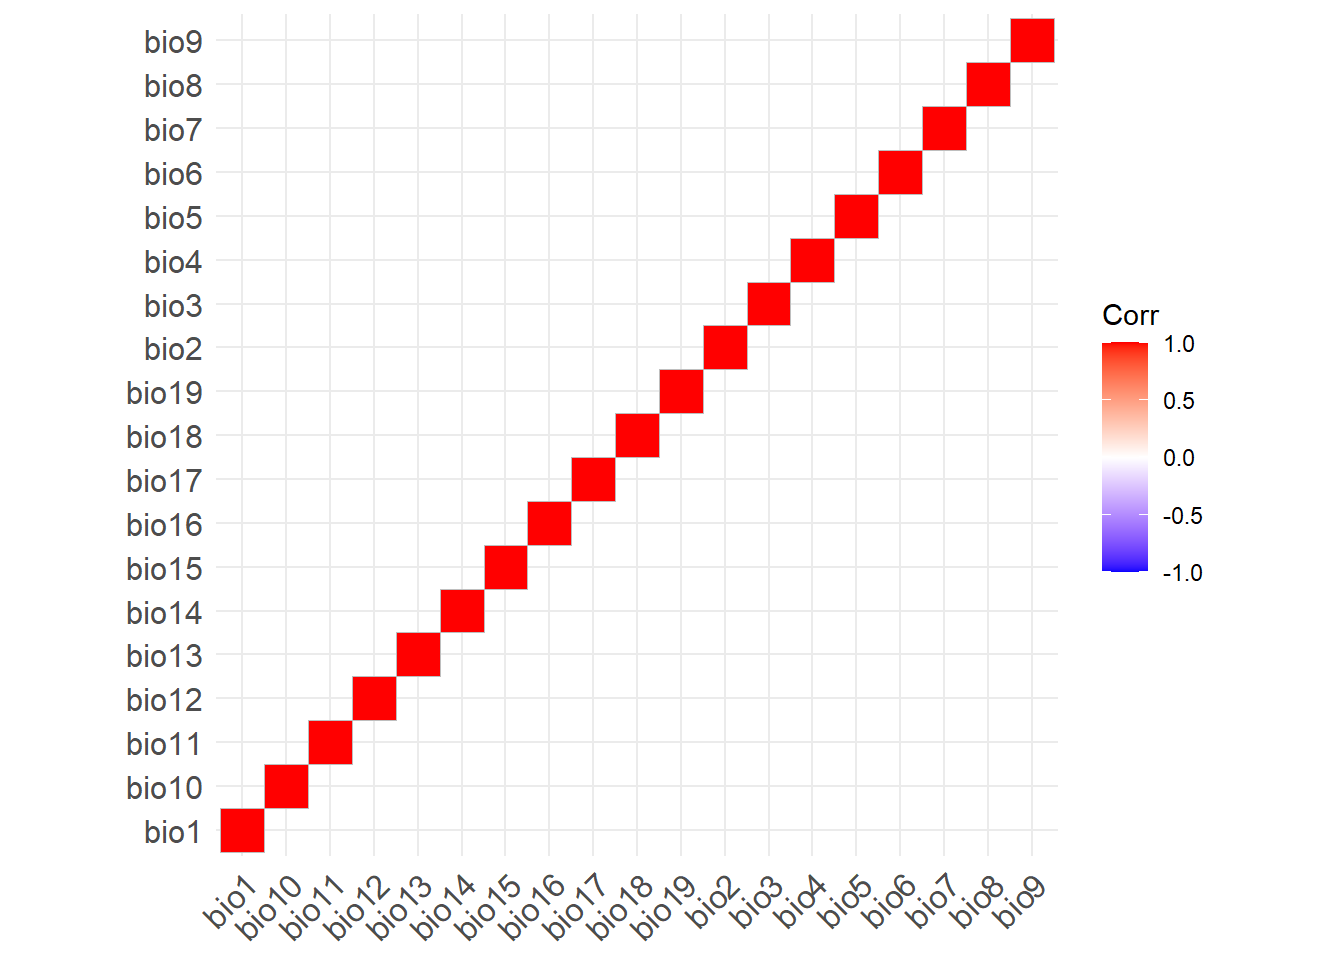
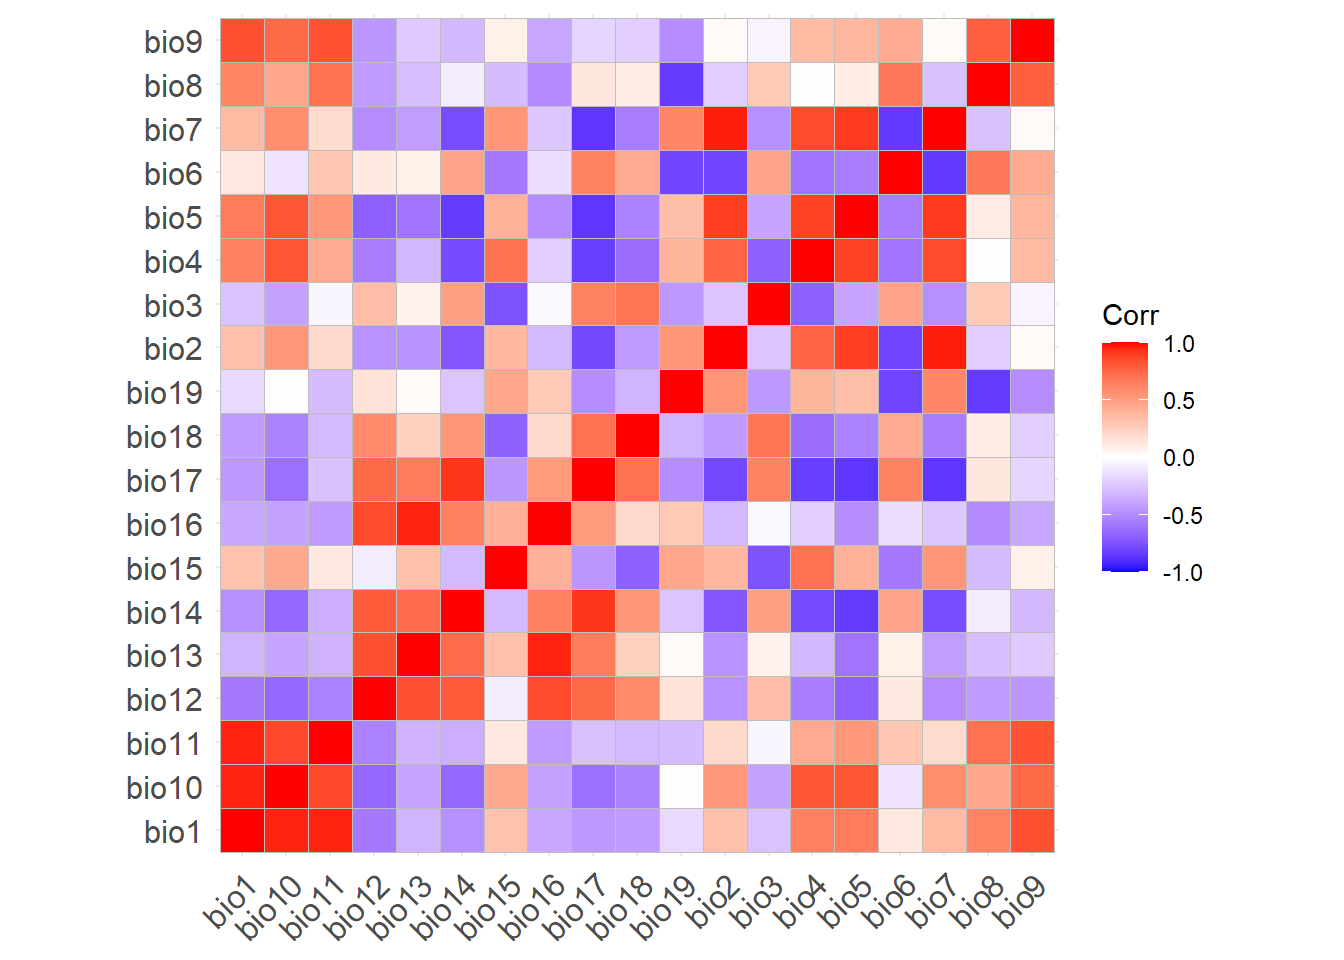
fix small visualisation issues

diff --git a/docs/41_variable_selection.html b/docs/41_variable_selection.html
@@ -365,10 +365,6 @@ div.csl-indent {
 <span id="cb3-8"><a href="#cb3-8" aria-hidden="true" tabindex="-1"></a>                                      <span class="fu">rep</span>(<span class="fu">c</span>(<span class="st">"group"</span>, <span class="st">"all"</span>), <span class="at">each =</span> <span class="dv">2</span>), </span>
 <span id="cb3-9"><a href="#cb3-9" aria-hidden="true" tabindex="-1"></a>                                      <span class="at">sep =</span> <span class="st">"_"</span>)))</span></code><button title="Copy to Clipboard" class="code-copy-button"><i class="bi"></i></button></pre></div>
 </details>
-<div class="cell-output cell-output-stderr">
-<pre><code>`summarise()` has grouped output by 'group'. You can override using the
-`.groups` argument.</code></pre>
-</div>
 <div class="cell-output-display">
 <table class="caption-top table table-sm table-striped small">
 <colgroup>
@@ -426,53 +422,53 @@ div.csl-indent {
 <div class="cell">
 <details class="code-fold">
 <summary>Code</summary>
-<div class="sourceCode cell-code" id="cb5"><pre class="sourceCode r code-with-copy"><code class="sourceCode r"><span id="cb5-1"><a href="#cb5-1" aria-hidden="true" tabindex="-1"></a>data <span class="ot">&lt;-</span> <span class="fu">read.csv</span>(<span class="st">"data/cache/data_stocks.csv"</span>) <span class="sc">%&gt;%</span> </span>
-<span id="cb5-2"><a href="#cb5-2" aria-hidden="true" tabindex="-1"></a>  <span class="fu">merge</span>(<span class="fu">read.csv</span>(<span class="st">"data/cache/climate_data.csv"</span>)) <span class="sc">%&gt;%</span> </span>
-<span id="cb5-3"><a href="#cb5-3" aria-hidden="true" tabindex="-1"></a>  <span class="fu">merge</span>(<span class="fu">read.csv</span>(<span class="st">"data/cache/soilgrids_data.csv"</span>)) <span class="sc">%&gt;%</span> </span>
-<span id="cb5-4"><a href="#cb5-4" aria-hidden="true" tabindex="-1"></a>  <span class="fu">drop_na</span>() </span>
-<span id="cb5-5"><a href="#cb5-5" aria-hidden="true" tabindex="-1"></a></span>
-<span id="cb5-6"><a href="#cb5-6" aria-hidden="true" tabindex="-1"></a><span class="co"># partition data in train/validation</span></span>
-<span id="cb5-7"><a href="#cb5-7" aria-hidden="true" tabindex="-1"></a><span class="co"># randomly select 20% of sites for validation</span></span>
-<span id="cb5-8"><a href="#cb5-8" aria-hidden="true" tabindex="-1"></a>validation_sites <span class="ot">&lt;-</span> data <span class="sc">%&gt;%</span></span>
-<span id="cb5-9"><a href="#cb5-9" aria-hidden="true" tabindex="-1"></a>  <span class="fu">group_by</span>(site) <span class="sc">%&gt;%</span></span>
-<span id="cb5-10"><a href="#cb5-10" aria-hidden="true" tabindex="-1"></a>  <span class="fu">summarise</span>(<span class="at">type =</span> <span class="fu">c</span>(<span class="st">"cal"</span>, <span class="st">"val"</span>)[<span class="dv">1</span><span class="sc">+</span><span class="fu">rbinom</span>(<span class="dv">1</span>, <span class="dv">1</span>, <span class="fl">0.2</span>)])</span>
-<span id="cb5-11"><a href="#cb5-11" aria-hidden="true" tabindex="-1"></a></span>
-<span id="cb5-12"><a href="#cb5-12" aria-hidden="true" tabindex="-1"></a>data <span class="ot">&lt;-</span> data <span class="sc">%&gt;%</span></span>
-<span id="cb5-13"><a href="#cb5-13" aria-hidden="true" tabindex="-1"></a>  <span class="fu">merge</span>(validation_sites)</span></code><button title="Copy to Clipboard" class="code-copy-button"><i class="bi"></i></button></pre></div>
+<div class="sourceCode cell-code" id="cb4"><pre class="sourceCode r code-with-copy"><code class="sourceCode r"><span id="cb4-1"><a href="#cb4-1" aria-hidden="true" tabindex="-1"></a>data <span class="ot">&lt;-</span> <span class="fu">read.csv</span>(<span class="st">"data/cache/data_stocks.csv"</span>) <span class="sc">%&gt;%</span> </span>
+<span id="cb4-2"><a href="#cb4-2" aria-hidden="true" tabindex="-1"></a>  <span class="fu">merge</span>(<span class="fu">read.csv</span>(<span class="st">"data/cache/climate_data.csv"</span>)) <span class="sc">%&gt;%</span> </span>
+<span id="cb4-3"><a href="#cb4-3" aria-hidden="true" tabindex="-1"></a>  <span class="fu">merge</span>(<span class="fu">read.csv</span>(<span class="st">"data/cache/soilgrids_data.csv"</span>)) <span class="sc">%&gt;%</span> </span>
+<span id="cb4-4"><a href="#cb4-4" aria-hidden="true" tabindex="-1"></a>  <span class="fu">drop_na</span>() </span>
+<span id="cb4-5"><a href="#cb4-5" aria-hidden="true" tabindex="-1"></a></span>
+<span id="cb4-6"><a href="#cb4-6" aria-hidden="true" tabindex="-1"></a><span class="co"># partition data in train/validation</span></span>
+<span id="cb4-7"><a href="#cb4-7" aria-hidden="true" tabindex="-1"></a><span class="co"># randomly select 20% of sites for validation</span></span>
+<span id="cb4-8"><a href="#cb4-8" aria-hidden="true" tabindex="-1"></a>validation_sites <span class="ot">&lt;-</span> data <span class="sc">%&gt;%</span></span>
+<span id="cb4-9"><a href="#cb4-9" aria-hidden="true" tabindex="-1"></a>  <span class="fu">group_by</span>(site) <span class="sc">%&gt;%</span></span>
+<span id="cb4-10"><a href="#cb4-10" aria-hidden="true" tabindex="-1"></a>  <span class="fu">summarise</span>(<span class="at">type =</span> <span class="fu">c</span>(<span class="st">"cal"</span>, <span class="st">"val"</span>)[<span class="dv">1</span><span class="sc">+</span><span class="fu">rbinom</span>(<span class="dv">1</span>, <span class="dv">1</span>, <span class="fl">0.2</span>)])</span>
+<span id="cb4-11"><a href="#cb4-11" aria-hidden="true" tabindex="-1"></a></span>
+<span id="cb4-12"><a href="#cb4-12" aria-hidden="true" tabindex="-1"></a>data <span class="ot">&lt;-</span> data <span class="sc">%&gt;%</span></span>
+<span id="cb4-13"><a href="#cb4-13" aria-hidden="true" tabindex="-1"></a>  <span class="fu">merge</span>(validation_sites)</span></code><button title="Copy to Clipboard" class="code-copy-button"><i class="bi"></i></button></pre></div>
 </details>
 </div>
 <p>We only keep the explanatory variables selected (as described above).</p>
 <div class="cell">
 <details class="code-fold">
 <summary>Code</summary>
-<div class="sourceCode cell-code" id="cb6"><pre class="sourceCode r code-with-copy"><code class="sourceCode r"><span id="cb6-1"><a href="#cb6-1" aria-hidden="true" tabindex="-1"></a>data_groups <span class="ot">&lt;-</span> <span class="fu">read.csv</span>(<span class="st">"data/cache/var_selection.csv"</span>)</span>
-<span id="cb6-2"><a href="#cb6-2" aria-hidden="true" tabindex="-1"></a></span>
-<span id="cb6-3"><a href="#cb6-3" aria-hidden="true" tabindex="-1"></a>rf_sel <span class="ot">&lt;-</span> data <span class="sc">|&gt;</span> </span>
-<span id="cb6-4"><a href="#cb6-4" aria-hidden="true" tabindex="-1"></a>  <span class="fu">select</span>(data_groups<span class="sc">$</span>variable[data_groups<span class="sc">$</span>ffs2]) <span class="sc">|&gt;</span> </span>
-<span id="cb6-5"><a href="#cb6-5" aria-hidden="true" tabindex="-1"></a>  <span class="fu">randomForest</span>(</span>
-<span id="cb6-6"><a href="#cb6-6" aria-hidden="true" tabindex="-1"></a>    data<span class="sc">$</span>T_stock,</span>
-<span id="cb6-7"><a href="#cb6-7" aria-hidden="true" tabindex="-1"></a>    <span class="at">subset =</span> (data<span class="sc">$</span>type <span class="sc">==</span> <span class="st">"cal"</span>),</span>
-<span id="cb6-8"><a href="#cb6-8" aria-hidden="true" tabindex="-1"></a>    <span class="at">ntree=</span><span class="dv">500</span>,</span>
-<span id="cb6-9"><a href="#cb6-9" aria-hidden="true" tabindex="-1"></a>    <span class="at">importance=</span><span class="cn">TRUE</span></span>
-<span id="cb6-10"><a href="#cb6-10" aria-hidden="true" tabindex="-1"></a>  )</span></code><button title="Copy to Clipboard" class="code-copy-button"><i class="bi"></i></button></pre></div>
+<div class="sourceCode cell-code" id="cb5"><pre class="sourceCode r code-with-copy"><code class="sourceCode r"><span id="cb5-1"><a href="#cb5-1" aria-hidden="true" tabindex="-1"></a>data_groups <span class="ot">&lt;-</span> <span class="fu">read.csv</span>(<span class="st">"data/cache/var_selection.csv"</span>)</span>
+<span id="cb5-2"><a href="#cb5-2" aria-hidden="true" tabindex="-1"></a></span>
+<span id="cb5-3"><a href="#cb5-3" aria-hidden="true" tabindex="-1"></a>rf_sel <span class="ot">&lt;-</span> data <span class="sc">|&gt;</span> </span>
+<span id="cb5-4"><a href="#cb5-4" aria-hidden="true" tabindex="-1"></a>  <span class="fu">select</span>(data_groups<span class="sc">$</span>variable[data_groups<span class="sc">$</span>ffs2]) <span class="sc">|&gt;</span> </span>
+<span id="cb5-5"><a href="#cb5-5" aria-hidden="true" tabindex="-1"></a>  <span class="fu">randomForest</span>(</span>
+<span id="cb5-6"><a href="#cb5-6" aria-hidden="true" tabindex="-1"></a>    data<span class="sc">$</span>T_stock,</span>
+<span id="cb5-7"><a href="#cb5-7" aria-hidden="true" tabindex="-1"></a>    <span class="at">subset =</span> (data<span class="sc">$</span>type <span class="sc">==</span> <span class="st">"cal"</span>),</span>
+<span id="cb5-8"><a href="#cb5-8" aria-hidden="true" tabindex="-1"></a>    <span class="at">ntree=</span><span class="dv">500</span>,</span>
+<span id="cb5-9"><a href="#cb5-9" aria-hidden="true" tabindex="-1"></a>    <span class="at">importance=</span><span class="cn">TRUE</span></span>
+<span id="cb5-10"><a href="#cb5-10" aria-hidden="true" tabindex="-1"></a>  )</span></code><button title="Copy to Clipboard" class="code-copy-button"><i class="bi"></i></button></pre></div>
 </details>
 </div>
 <p>The importance of each selected variable in the final model is represented below.</p>
 <div class="cell">
 <details class="code-fold">
 <summary>Code</summary>
-<div class="sourceCode cell-code" id="cb7"><pre class="sourceCode r code-with-copy"><code class="sourceCode r"><span id="cb7-1"><a href="#cb7-1" aria-hidden="true" tabindex="-1"></a>importance_sel <span class="ot">&lt;-</span> <span class="fu">importance</span>(rf_sel, <span class="at">type=</span><span class="dv">1</span>) <span class="sc">|&gt;</span> </span>
-<span id="cb7-2"><a href="#cb7-2" aria-hidden="true" tabindex="-1"></a>  <span class="fu">as.data.frame</span>()</span>
-<span id="cb7-3"><a href="#cb7-3" aria-hidden="true" tabindex="-1"></a>importance_sel<span class="sc">$</span>variable <span class="ot">&lt;-</span> <span class="fu">rownames</span>(importance_sel)</span>
-<span id="cb7-4"><a href="#cb7-4" aria-hidden="true" tabindex="-1"></a></span>
-<span id="cb7-5"><a href="#cb7-5" aria-hidden="true" tabindex="-1"></a>importance_sel <span class="sc">|&gt;</span> </span>
-<span id="cb7-6"><a href="#cb7-6" aria-hidden="true" tabindex="-1"></a>  <span class="fu">merge</span>(data_groups) <span class="sc">|&gt;</span> </span>
-<span id="cb7-7"><a href="#cb7-7" aria-hidden="true" tabindex="-1"></a>  <span class="fu">ggplot</span>(<span class="fu">aes</span>(<span class="at">x =</span> <span class="fu">reorder</span>(variable, <span class="st">`</span><span class="at">%IncMSE</span><span class="st">`</span>), <span class="at">y =</span> <span class="st">`</span><span class="at">%IncMSE</span><span class="st">`</span>, <span class="at">fill =</span> group)) <span class="sc">+</span></span>
-<span id="cb7-8"><a href="#cb7-8" aria-hidden="true" tabindex="-1"></a>  <span class="fu">geom_bar</span>(<span class="at">stat =</span> <span class="st">"identity"</span>) <span class="sc">+</span></span>
-<span id="cb7-9"><a href="#cb7-9" aria-hidden="true" tabindex="-1"></a>  <span class="fu">coord_flip</span>() <span class="sc">+</span></span>
-<span id="cb7-10"><a href="#cb7-10" aria-hidden="true" tabindex="-1"></a>  <span class="fu">xlab</span>(<span class="st">"Variables"</span>) <span class="sc">+</span></span>
-<span id="cb7-11"><a href="#cb7-11" aria-hidden="true" tabindex="-1"></a>  <span class="fu">ylab</span>(<span class="st">"Increase in OOB Measn Square Error (%)"</span>) <span class="sc">+</span></span>
-<span id="cb7-12"><a href="#cb7-12" aria-hidden="true" tabindex="-1"></a>  <span class="fu">theme_minimal</span>()</span></code><button title="Copy to Clipboard" class="code-copy-button"><i class="bi"></i></button></pre></div>
+<div class="sourceCode cell-code" id="cb6"><pre class="sourceCode r code-with-copy"><code class="sourceCode r"><span id="cb6-1"><a href="#cb6-1" aria-hidden="true" tabindex="-1"></a>importance_sel <span class="ot">&lt;-</span> <span class="fu">importance</span>(rf_sel, <span class="at">type=</span><span class="dv">1</span>) <span class="sc">|&gt;</span> </span>
+<span id="cb6-2"><a href="#cb6-2" aria-hidden="true" tabindex="-1"></a>  <span class="fu">as.data.frame</span>()</span>
+<span id="cb6-3"><a href="#cb6-3" aria-hidden="true" tabindex="-1"></a>importance_sel<span class="sc">$</span>variable <span class="ot">&lt;-</span> <span class="fu">rownames</span>(importance_sel)</span>
+<span id="cb6-4"><a href="#cb6-4" aria-hidden="true" tabindex="-1"></a></span>
+<span id="cb6-5"><a href="#cb6-5" aria-hidden="true" tabindex="-1"></a>importance_sel <span class="sc">|&gt;</span> </span>
+<span id="cb6-6"><a href="#cb6-6" aria-hidden="true" tabindex="-1"></a>  <span class="fu">merge</span>(data_groups) <span class="sc">|&gt;</span> </span>
+<span id="cb6-7"><a href="#cb6-7" aria-hidden="true" tabindex="-1"></a>  <span class="fu">ggplot</span>(<span class="fu">aes</span>(<span class="at">x =</span> <span class="fu">reorder</span>(variable, <span class="st">`</span><span class="at">%IncMSE</span><span class="st">`</span>), <span class="at">y =</span> <span class="st">`</span><span class="at">%IncMSE</span><span class="st">`</span>, <span class="at">fill =</span> group)) <span class="sc">+</span></span>
+<span id="cb6-8"><a href="#cb6-8" aria-hidden="true" tabindex="-1"></a>  <span class="fu">geom_bar</span>(<span class="at">stat =</span> <span class="st">"identity"</span>) <span class="sc">+</span></span>
+<span id="cb6-9"><a href="#cb6-9" aria-hidden="true" tabindex="-1"></a>  <span class="fu">coord_flip</span>() <span class="sc">+</span></span>
+<span id="cb6-10"><a href="#cb6-10" aria-hidden="true" tabindex="-1"></a>  <span class="fu">xlab</span>(<span class="st">"Variables"</span>) <span class="sc">+</span></span>
+<span id="cb6-11"><a href="#cb6-11" aria-hidden="true" tabindex="-1"></a>  <span class="fu">ylab</span>(<span class="st">"Increase in OOB Measn Square Error (%)"</span>) <span class="sc">+</span></span>
+<span id="cb6-12"><a href="#cb6-12" aria-hidden="true" tabindex="-1"></a>  <span class="fu">theme_minimal</span>()</span></code><button title="Copy to Clipboard" class="code-copy-button"><i class="bi"></i></button></pre></div>
 </details>
 <div class="cell-output-display">
 <div>

diff --git a/docs/42_all_variables.html b/docs/42_all_variables.html
@@ -238,15 +238,8 @@ pre > code.sourceCode > span > a:first-child::before { text-decoration: underlin
 </nav>
 <div id="quarto-sidebar-glass" class="quarto-sidebar-collapse-item" data-bs-toggle="collapse" data-bs-target=".quarto-sidebar-collapse-item"></div>
 <!-- margin-sidebar -->
-    <div id="quarto-margin-sidebar" class="sidebar margin-sidebar">
-        <nav id="TOC" role="doc-toc" class="toc-active">
-    <h2 id="toc-title">Table of contents</h2>
-   
-  <ul>
-  <li><a href="#partition-data-by-site" id="toc-partition-data-by-site" class="nav-link active" data-scroll-target="#partition-data-by-site">Partition data by site</a></li>
-  <li><a href="#results" id="toc-results" class="nav-link" data-scroll-target="#results">Results</a></li>
-  </ul>
-</nav>
+    <div id="quarto-margin-sidebar" class="sidebar margin-sidebar zindex-bottom">
+        
     </div>
 <!-- main -->
 <main class="content" id="quarto-document-content">
@@ -278,8 +271,7 @@ pre > code.sourceCode > span > a:first-child::before { text-decoration: underlin
 <span id="cb1-3"><a href="#cb1-3" aria-hidden="true" tabindex="-1"></a><span class="fu">library</span>(usdm)</span></code><button title="Copy to Clipboard" class="code-copy-button"><i class="bi"></i></button></pre></div>
 </details>
 </div>
-<section id="partition-data-by-site" class="level3">
-<h3 class="anchored" data-anchor-id="partition-data-by-site">Partition data by site</h3>
+<p>We first randomly partition the data by site, keeping 20% of sites for validation.</p>
 <div class="cell">
 <details class="code-fold">
 <summary>Code</summary>
@@ -298,9 +290,6 @@ pre > code.sourceCode > span > a:first-child::before { text-decoration: underlin
 <span id="cb2-13"><a href="#cb2-13" aria-hidden="true" tabindex="-1"></a>  <span class="fu">merge</span>(validation_sites)</span></code><button title="Copy to Clipboard" class="code-copy-button"><i class="bi"></i></button></pre></div>
 </details>
 </div>
-</section>
-<section id="results" class="level3">
-<h3 class="anchored" data-anchor-id="results">Results</h3>
 <div class="cell">
 <details class="code-fold">
 <summary>Code</summary>
@@ -314,6 +303,7 @@ pre > code.sourceCode > span > a:first-child::before { text-decoration: underlin
 <span id="cb3-8"><a href="#cb3-8" aria-hidden="true" tabindex="-1"></a>  )</span></code><button title="Copy to Clipboard" class="code-copy-button"><i class="bi"></i></button></pre></div>
 </details>
 </div>
+<p>The importance of all variables in the final model is represented below.</p>
 <div class="cell">
 <details class="code-fold">
 <summary>Code</summary>
@@ -342,7 +332,6 @@ pre > code.sourceCode > span > a:first-child::before { text-decoration: underlin
 </div>
 
 
-</section>
 
 </main> <!-- /main -->
 <script id="quarto-html-after-body" type="application/javascript">

diff --git a/docs/31_climate.html b/docs/31_climate.html
@@ -216,13 +216,19 @@ pre > code.sourceCode > span > a:first-child::before { text-decoration: underlin
           <li class="sidebar-item">
   <div class="sidebar-item-container"> 
   <a href="./41_variable_selection.html" class="sidebar-item-text sidebar-link">
- <span class="menu-text">Variable selection</span></a>
+ <span class="menu-text">RF with variable selection</span></a>
   </div>
 </li>
           <li class="sidebar-item">
   <div class="sidebar-item-container"> 
-  <a href="./43_rf_model_calibration.html" class="sidebar-item-text sidebar-link">
- <span class="menu-text">Random forest model</span></a>
+  <a href="./42_all_variables.html" class="sidebar-item-text sidebar-link">
+ <span class="menu-text">RF without variable selection</span></a>
+  </div>
+</li>
+          <li class="sidebar-item">
+  <div class="sidebar-item-container"> 
+  <a href="./43_rf_comparison.html" class="sidebar-item-text sidebar-link">
+ <span class="menu-text">Comparison of Random forest models results</span></a>
   </div>
 </li>
       </ul>
@@ -385,8 +391,9 @@ pre > code.sourceCode > span > a:first-child::before { text-decoration: underlin
 <summary>Code</summary>
 <div class="sourceCode cell-code" id="cb7"><pre class="sourceCode r code-with-copy"><code class="sourceCode r"><span id="cb7-1"><a href="#cb7-1" aria-hidden="true" tabindex="-1"></a>climate_data <span class="sc">|&gt;</span> </span>
 <span id="cb7-2"><a href="#cb7-2" aria-hidden="true" tabindex="-1"></a>  <span class="fu">select</span>(<span class="fu">contains</span>(<span class="st">"bio"</span>)) <span class="sc">|&gt;</span> </span>
-<span id="cb7-3"><a href="#cb7-3" aria-hidden="true" tabindex="-1"></a>  <span class="fu">cor</span>() <span class="sc">|&gt;</span> </span>
-<span id="cb7-4"><a href="#cb7-4" aria-hidden="true" tabindex="-1"></a>  <span class="fu">ggcorrplot</span>()</span></code><button title="Copy to Clipboard" class="code-copy-button"><i class="bi"></i></button></pre></div>
+<span id="cb7-3"><a href="#cb7-3" aria-hidden="true" tabindex="-1"></a>  <span class="fu">drop_na</span>() <span class="sc">|&gt;</span> </span>
+<span id="cb7-4"><a href="#cb7-4" aria-hidden="true" tabindex="-1"></a>  <span class="fu">cor</span>() <span class="sc">|&gt;</span> </span>
+<span id="cb7-5"><a href="#cb7-5" aria-hidden="true" tabindex="-1"></a>  <span class="fu">ggcorrplot</span>()</span></code><button title="Copy to Clipboard" class="code-copy-button"><i class="bi"></i></button></pre></div>
 </details>
 <div class="cell-output-display">
 <div>
